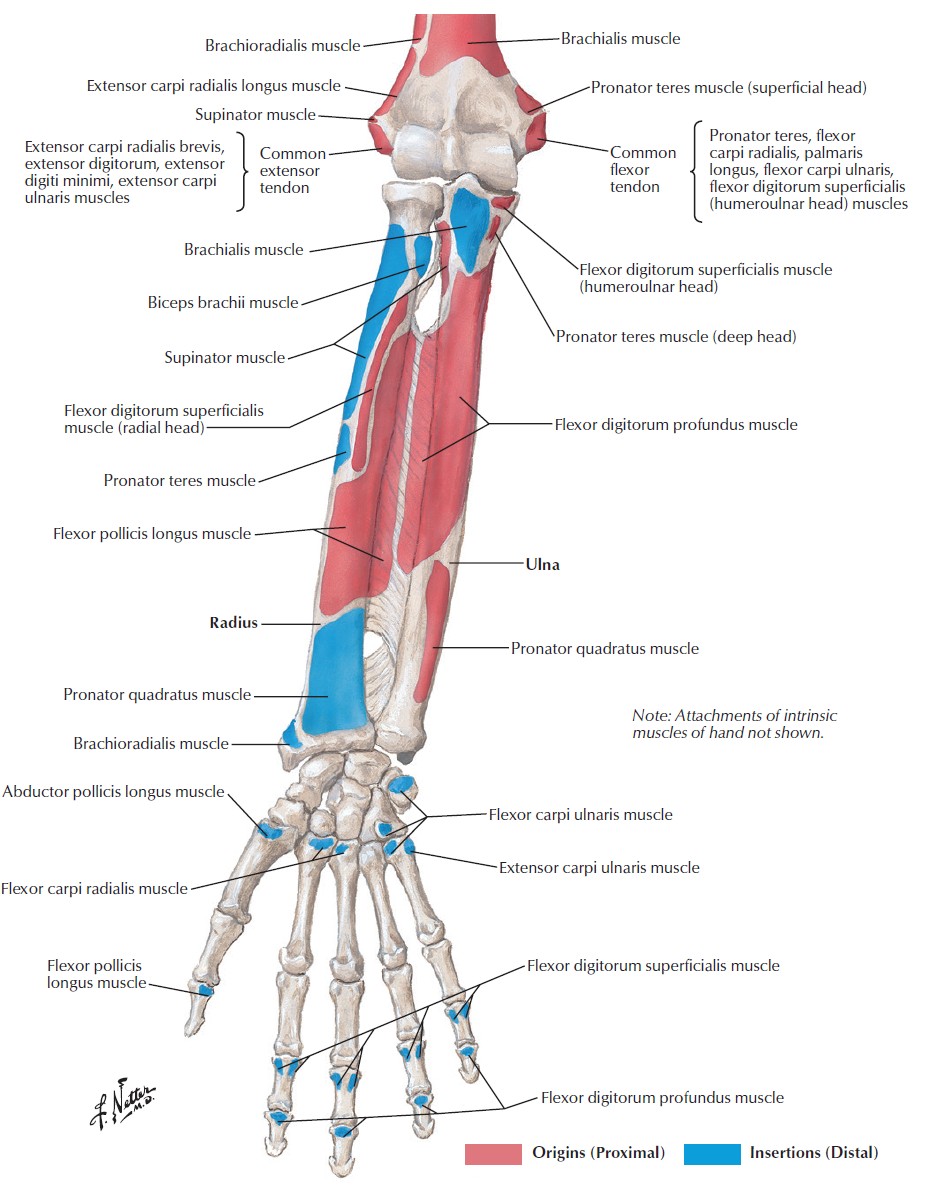
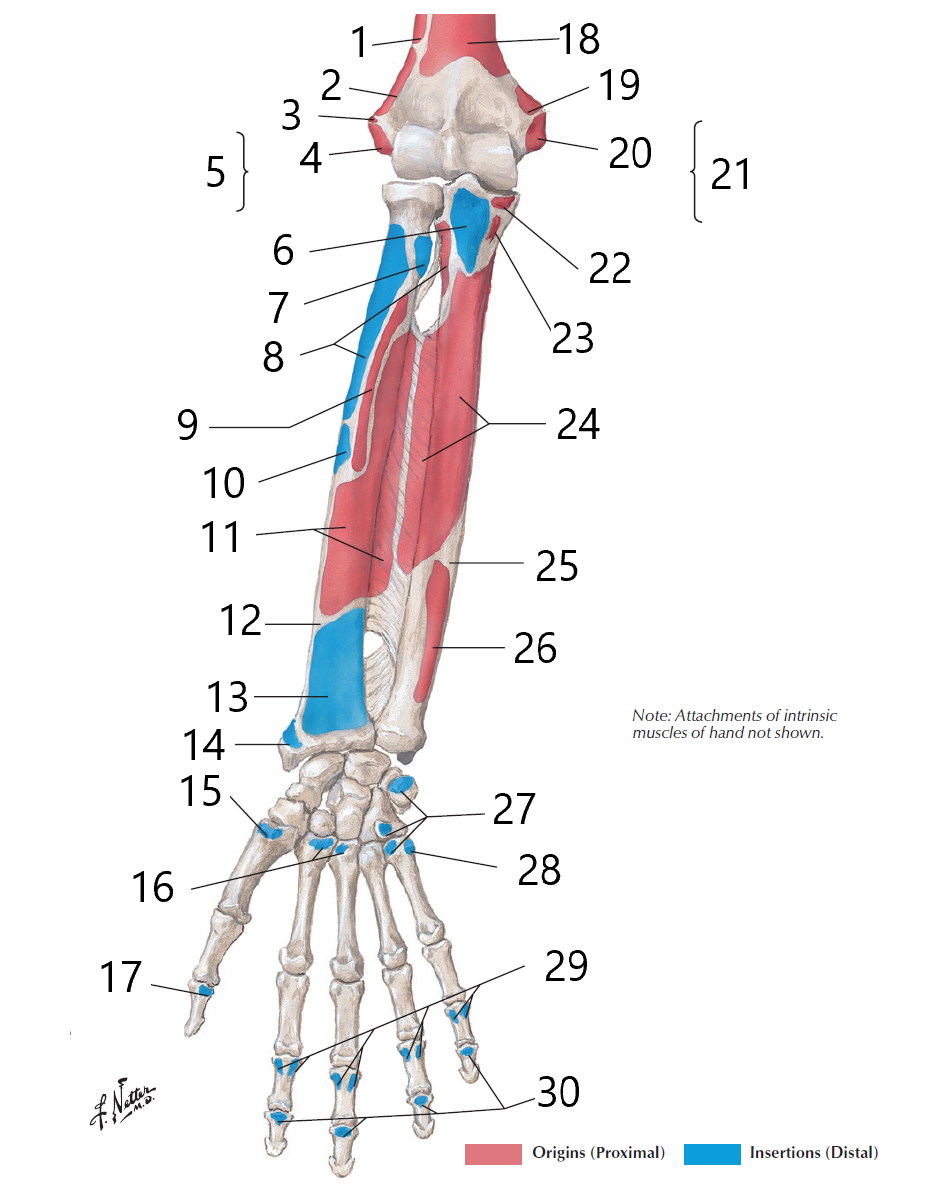
Plate update

diff --git a/data2.js b/data2.js
@@ -381,6 +381,42 @@ var netter_data = `{
 {"number": 40, "name": "Articulation with scaphoid bone", "important": 0},
 {"number": 41, "name": "Articulation with lunate bone", "important": 0}
 ]},
+{"number": 439,
+            "name": "Attachemnts of Muscles of Forearm: Anterior View",
+            "img": "Images/Plate439.png",
+            "img_num": "Images/Plate439Num.png",
+	        "structures": [
+{"number": 1, "name": "Brachioradialis muscle", "important": 0},
+{"number": 2, "name": "Extensor carpi radialis longus muscle", "important": 0},
+{"number": 3, "name": "Supinator muscle", "important": 0},
+{"number": 4, "name": "Common extensor tendon", "important": 0},
+{"number": 5, "name": "Extensor carpi radialis brevis, extensor digitorum, extensor digiti minimi, extensor carpi ulnaris muscles", "important": 0},
+{"number": 6, "name": "Brachialis muscle", "important": 0},
+{"number": 7, "name": "Biceps brachii muscle", "important": 0},
+{"number": 8, "name": "Supinator muscle", "important": 0},
+{"number": 9, "name": "Flexor digitorum superficialis muscle (radial head)", "important": 0},
+{"number": 10, "name": "Pronator teres muscle", "important": 0},
+{"number": 11, "name": "Flexor pollicis longus muscle", "important": 0},
+{"number": 12, "name": "Radius", "important": 0},
+{"number": 13, "name": "Pronator quadratus muscle", "important": 0},
+{"number": 14, "name": "Brachioradialis muscle", "important": 0},
+{"number": 15, "name": "Abductor pollicis longus muscle", "important": 0},
+{"number": 16, "name": "Flexor carpi radialis muscle", "important": 0},
+{"number": 17, "name": "Flexor pollicis longus muscle", "important": 0},
+{"number": 18, "name": "Brachialis muscle", "important": 0},
+{"number": 19, "name": "Pronator teres muscle (superficial head)", "important": 0},
+{"number": 20, "name": "Common flexor tendon", "important": 0},
+{"number": 21, "name": "Pronator teres, flexor carpi radialis, palmaris longus, flexor carpi ulnaris, flexor digitorum superficialis (humeroulnar head) muscles", "important": 0},
+{"number": 22, "name": "Flexor digitorum superficialis muscle (humeroulnar head)", "important": 0},
+{"number": 23, "name": "Pronator teres muscle (deep head)", "important": 0},
+{"number": 24, "name": "Flexor digitorum profundus muscle", "important": 0},
+{"number": 25, "name": "Ulna", "important": 0},
+{"number": 26, "name": "Pronator quadratus muscle", "important": 0},
+{"number": 27, "name": "Flexor carpi ulnaris muscle", "important": 0},
+{"number": 28, "name": "Extensor carpi ulnaris muscle", "important": 0},
+{"number": 29, "name": "Flexor digitorum superficialis muscle", "important": 0},
+{"number": 30, "name": "Flexor digitorum profundus muscle", "important": 0}
+]},
 {"number": 442,
             "name": "Carpal Bones",
             "img": "Images/Plate442.png",
